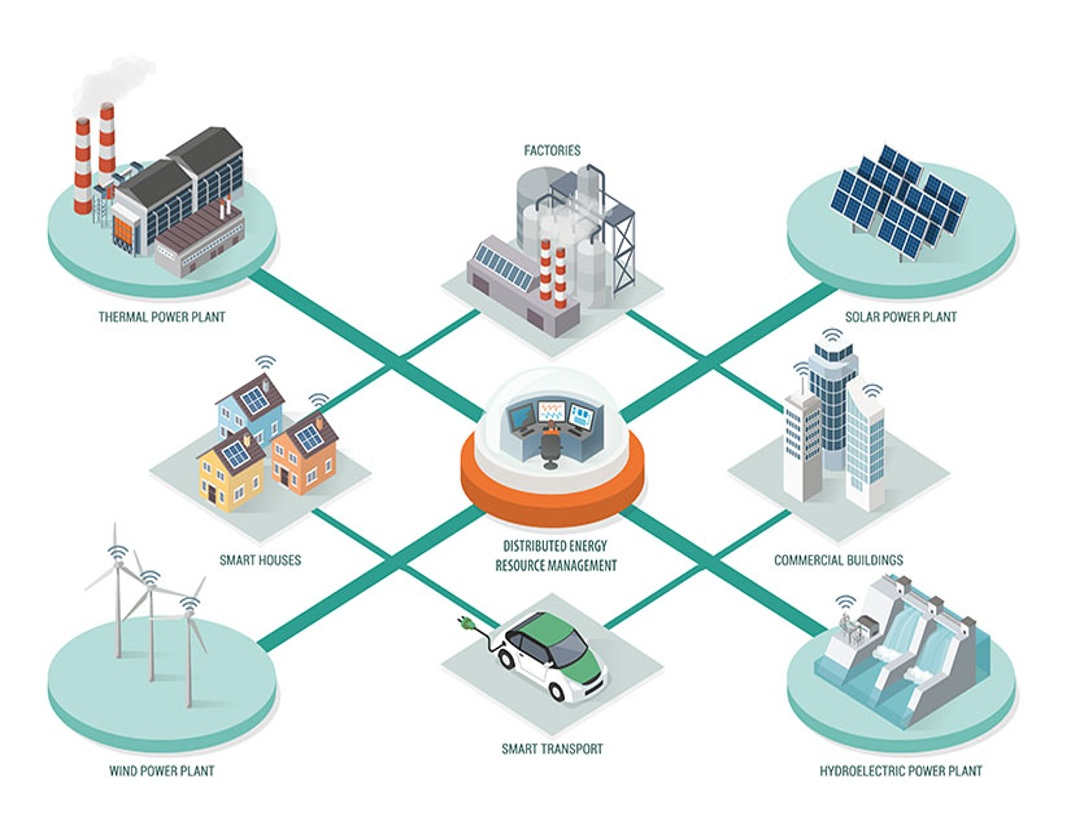
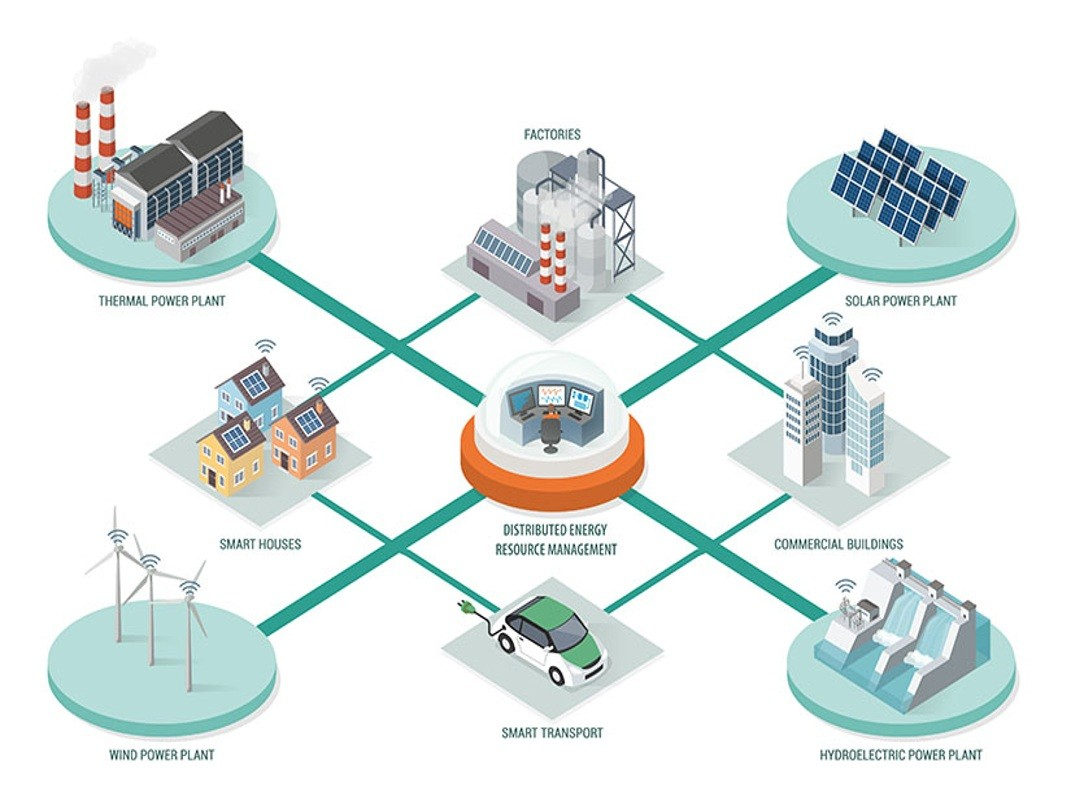
Save telemetry image upadete to 4:3 aspect ratio

diff --git a/src/pages/Telemetry.tsx b/src/pages/Telemetry.tsx
@@ -27,11 +27,11 @@ export const Telemetry: React.FC = () => {
             Candela Energy Limited delivers intelligent telemetry and Industrial Internet of Things (IIoT) solutions that provide secure, real-time visibility into the performance of critical energy infrastructure. Our solutions empower utilities, gas operators, independent power producers (IPPs), and industrial enterprises to monitor, manage, and optimize geographically dispersed assets from a centralized platform.
           </p>
 
-          {/* Telemetry Architecture Diagram with Widescreen Container */}
-          <div className="w-full aspect-video overflow-hidden rounded-2xl border border-slate-800 bg-slate-950 shadow-xl my-8">
+          {/* Telemetry Architecture Diagram - Figure 2.1 (4:3 Ratio Container) */}
+          <div className="w-full aspect-[4/3] overflow-hidden rounded-2xl border border-slate-800 bg-slate-950 shadow-xl my-8">
             <img 
               src={telemetryImg} 
-              alt="Automated Telemetry Architecture" 
+              alt="Figure 2.1: Distributed Energy Resource Management (DERM) telemetry architecture" 
               className="w-full h-full object-contain object-center"
             />
           </div>
